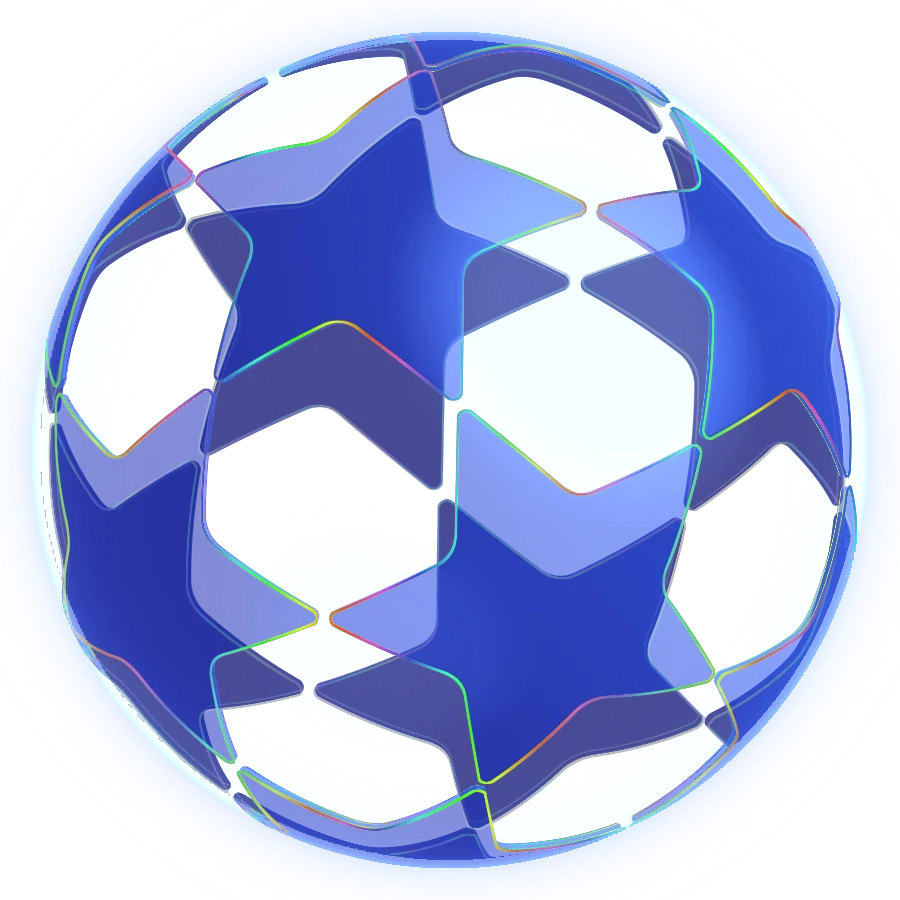
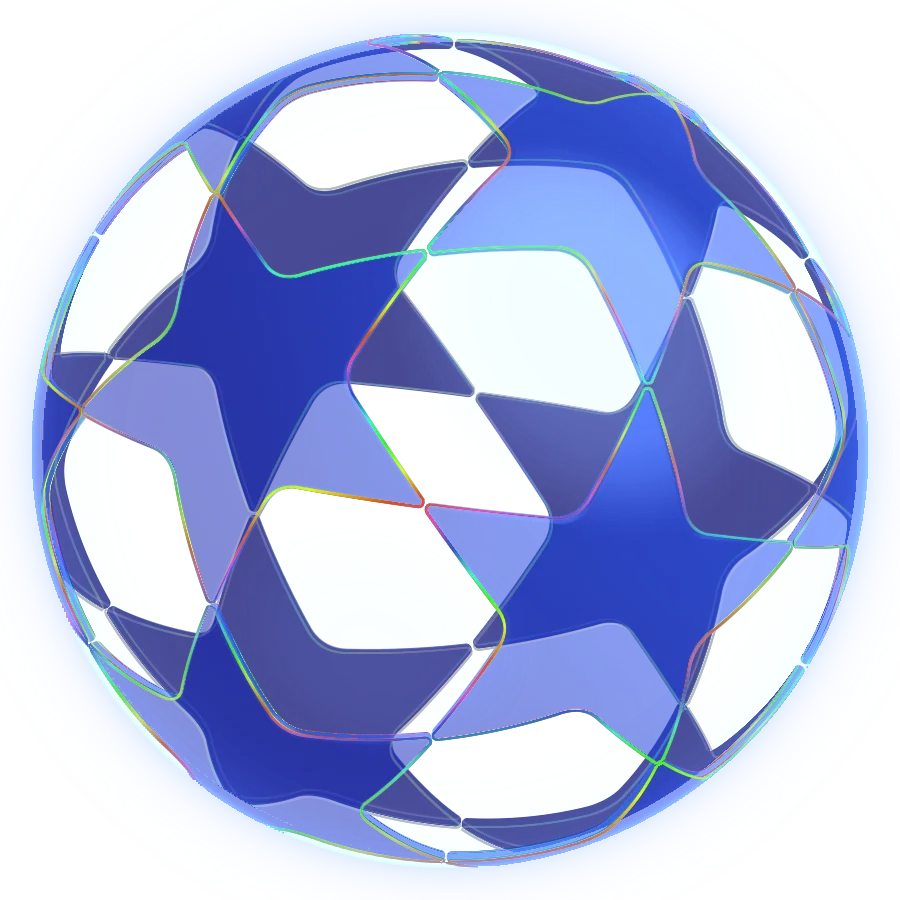
Star ball: back to the previous shape, new colours and reflections
The owner's second reference was about colour and reflections, not
geometry. The stars, their size and the composition go back to the
previous version; the new shading stays: clear ultramarine glass lighter
than the dark gaps, crisp prism outlines on every star, and the clear
bubble's sheen, rim light and glow.

diff --git a/public/js/lib/starball.js b/public/js/lib/starball.js
@@ -56,10 +56,10 @@ uniform float uPx;     // one pixel in ball units
 uniform vec2 uA;       // a star arm's inner corner, pulled in for the rounding
 uniform float uP;      // and its tip, pulled in the same way
 
-const float ROUND = 0.022;  // every corner of the star is rounded: the tips
-const float FILLET = 0.05;  // and, more softly, the inside corners
-const float T = 0.02;       // the glass's thickness, as a share of the radius
-const float BEVEL = 0.0085; // the slab's edges are rounded over, not cut square
+const float ROUND = 0.014;  // every corner of the star is rounded: the tips
+const float FILLET = 0.06;  // and, more softly, the inside corners
+const float T = 0.026;      // the glass's thickness, as a share of the radius
+const float BEVEL = 0.0115; // the slab's edges are rounded over, not cut square
 
 // One arm of the star, folded onto its right half: the kite between the
 // centre, the inner corner and the tip. Negative inside.
@@ -254,40 +254,30 @@ void main() {
   gl_FragColor = outc;
 }`;
 
-// The composition at rest, as on the competition's own artwork: one of the
-// gaps between stars faces us a little left of centre, with a star straight
-// above it.
+// The composition at rest, as on the competition's covers: a star a little
+// left of centre and above, facing us, one point reaching up and to the left.
 const cross3 = (a, b) => [a[1] * b[2] - a[2] * b[1], a[2] * b[0] - a[0] * b[2], a[0] * b[1] - a[1] * b[0]];
 const REST = (() => {
-  const v0 = norm([-0.3, -0.05, 0.95]);
-  const up = [0.08, 1, 0];
+  const v0 = norm([-0.5, 0.16, 0.85]);
+  const up = [-0.42, 0.91, 0];
   const k = dot(up, v0);
   const w0 = norm([up[0] - v0[0] * k, up[1] - v0[1] * k, up[2] - v0[2] * k]);
   const x0 = cross3(v0, w0);
-  // A gap is the middle of three stars that all touch: one star and two of
-  // its neighbours that are neighbours of each other.
-  const [s0] = CENTRES;
-  const near = CENTRES.filter((o) => o !== s0).sort((p, q) => dot(q, s0) - dot(p, s0)).slice(0, 5);
-  const s1 = near[0];
-  const s2 = near.slice(1).sort((p, q) => dot(q, s1) - dot(p, s1))[0];
-  const c0 = norm([s0[0] + s1[0] + s2[0], s0[1] + s1[1] + s2[1], s0[2] + s1[2] + s2[2]]);
-  const kk = dot(s0, c0);
-  const a0 = norm([s0[0] - c0[0] * kk, s0[1] - c0[1] * kk, s0[2] - c0[2] * kk]);
-  const b0 = cross3(c0, a0);
+  const c0 = CENTRES[0], a0 = AIMS[0], b0 = cross3(c0, a0);
   // View to ball: [c0 a0 b0] times the transpose of [v0 w0 x0].
   return [0, 1, 2].map((i) => [0, 1, 2].map((j) => c0[i] * v0[j] + a0[i] * w0[j] + b0[i] * x0[j]));
 })();
 
 // One arm of a star, in the plane touching the ball at the star's centre
 // (tangent units): the tip straight up (neighbouring tips meet at 0.618),
-// the inner corners well out towards it (fat stars), 36 degrees either side. The
+// the inner corners at 0.42 of it, 36 degrees either side. The
 // shader rounds every corner by growing a smaller arm by ROUND, so the tip
 // and the inner corner are pulled in first: the arm's outer edge moves in by
 // ROUND and the growth puts it back where it was, now with a rounded tip.
-const ROUND = 0.022; // keep in step with ROUND in FRAG
+const ROUND = 0.014; // keep in step with ROUND in FRAG
 function armShape() {
-  const TIP = 0.63; // the rounded tip lands just short of 0.618, where the neighbour's meets it
-  const inner = 0.45 * TIP; // slim points, as on the competition's own ball
+  const TIP = 0.636; // the rounded tip lands just short of 0.618, where the neighbour's meets it
+  const inner = 0.42 * TIP;
   const a = [inner * Math.sin(Math.PI / 5), inner * Math.cos(Math.PI / 5)];
   const d = [-a[0], TIP - a[1]];
   const l = Math.hypot(d[0], d[1]);
